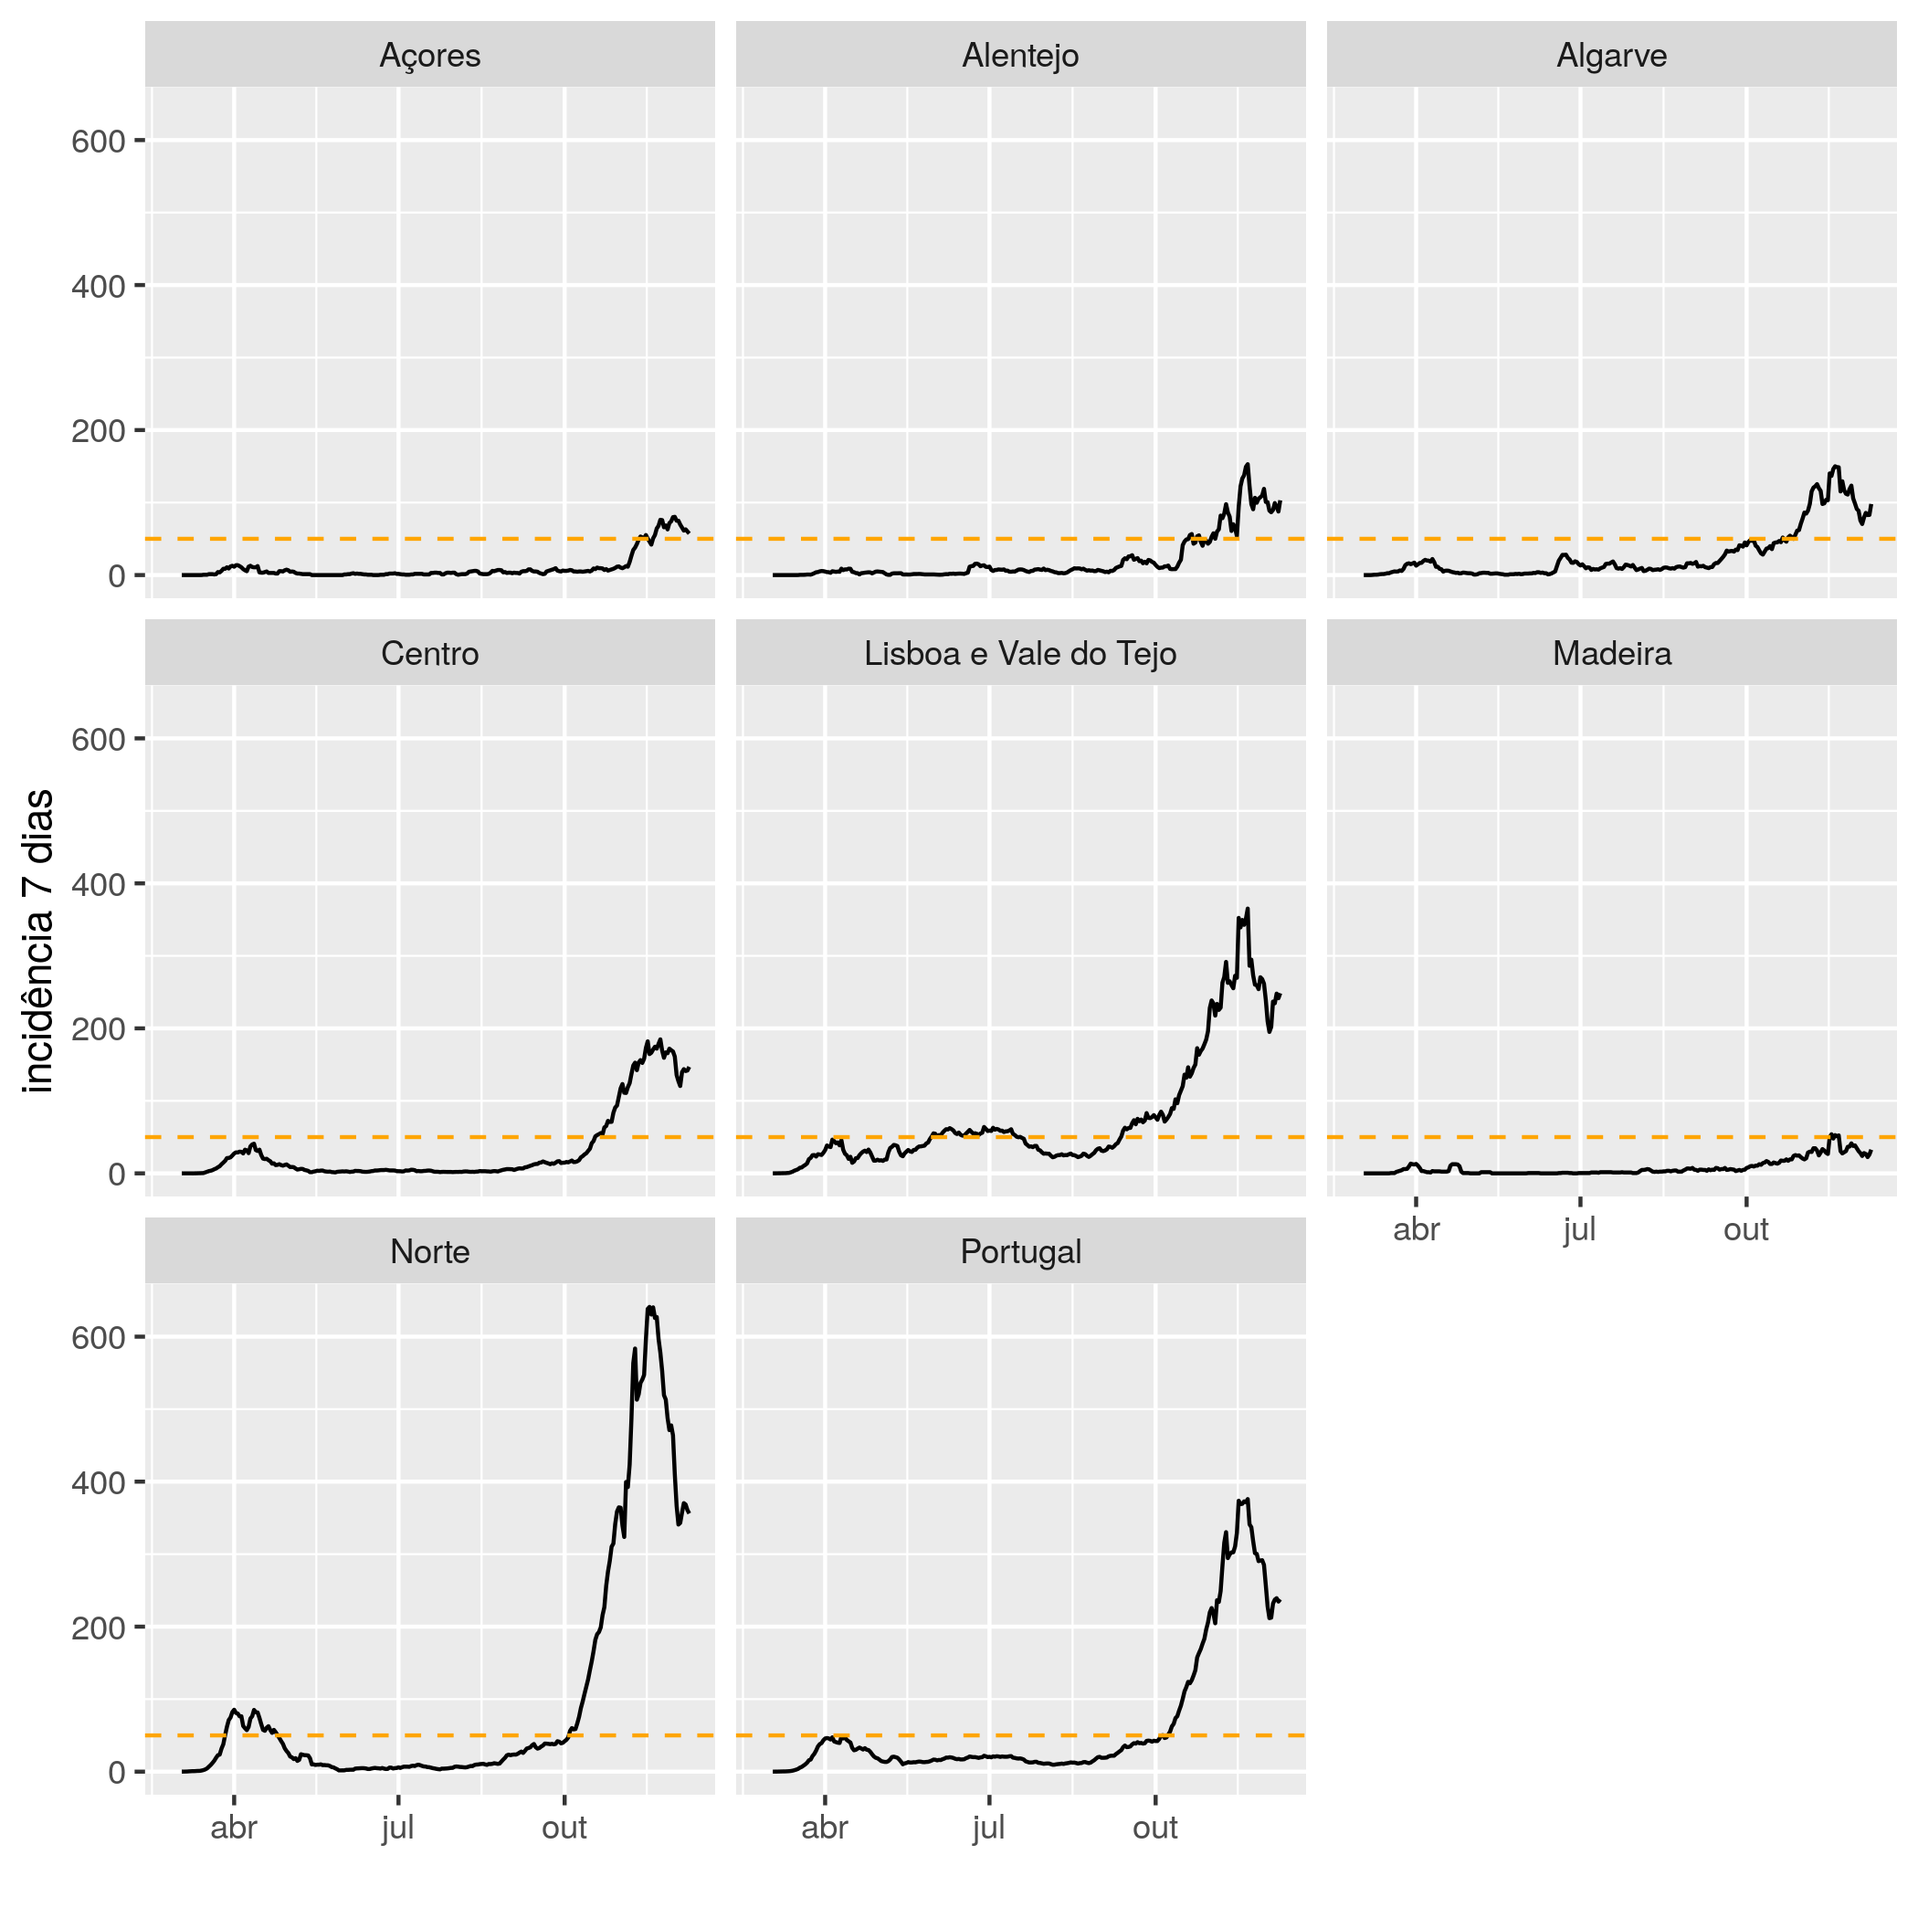
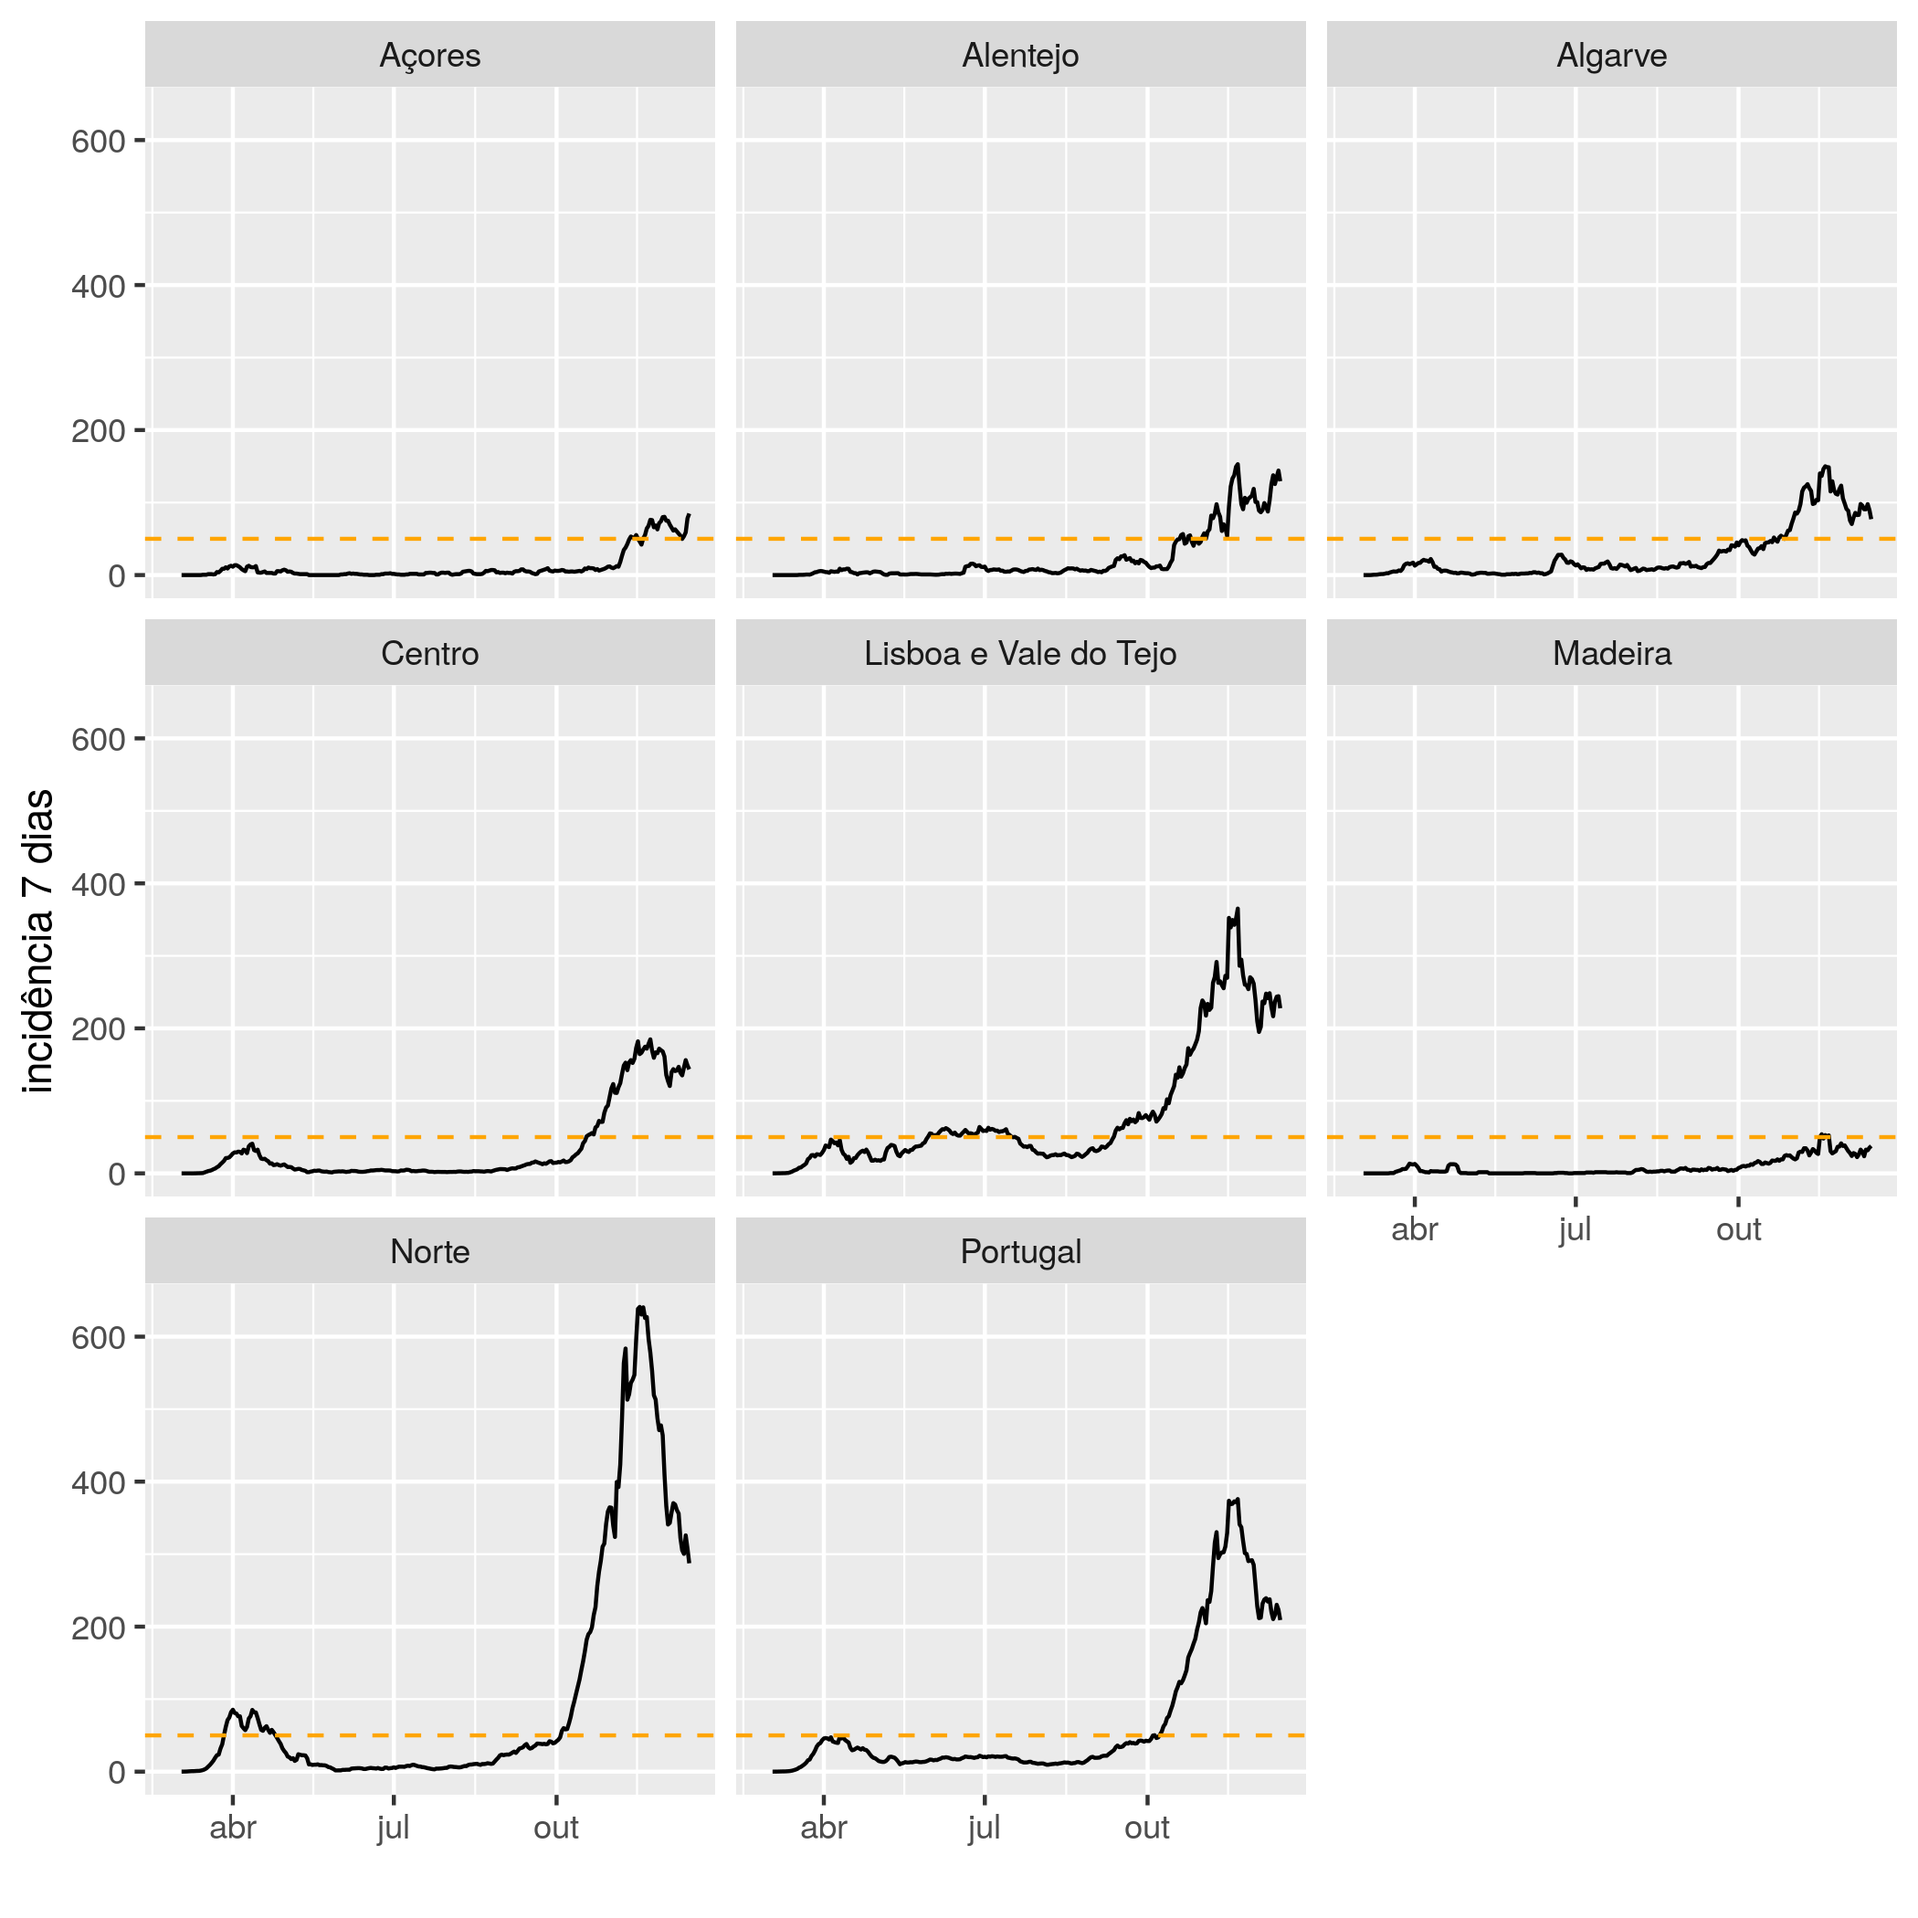
mais dias

diff --git a/README.md b/README.md
@@ -1,7 +1,7 @@
 # Contexto
 A incidência por 100000 habitantes em 7 dias é o valor de referência para decretar regiões de risco pelas autoridades de saúde alemãs (valor charneira é 50). Gráficos atualizados diariamente. Para ajudar quem quer viajar para a Alemanha ou vir passar férias a Portugal.
 
-Dados mais recentes de 2020-12-09.
+Dados mais recentes de 2020-12-15.
 
 # Incidência por 100000 habitantes em 7 dias
 ## Últimos 30 dias
